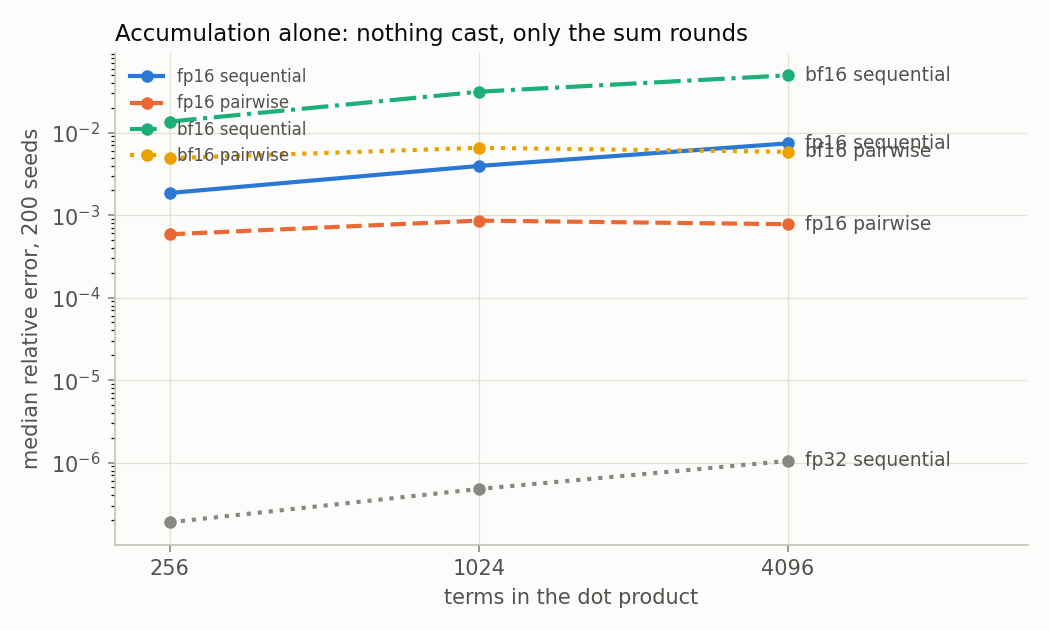
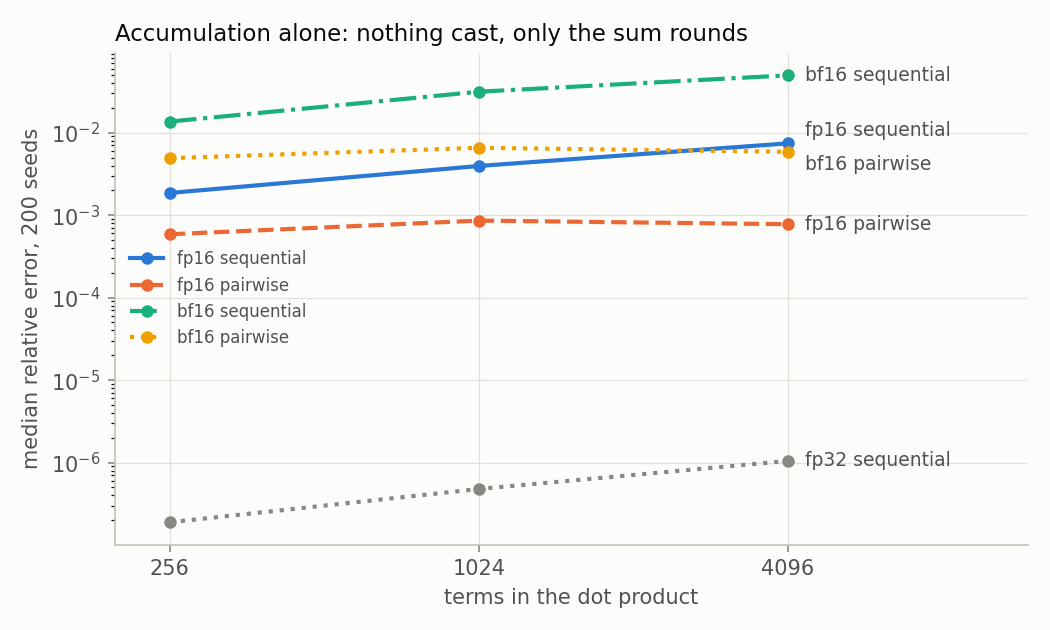
Make gradlew executable; separate colliding figure labels
CI failed on the first step with 'Permission denied': the wrapper was
committed from Windows without its executable bit.

Changed region(s): [[0.1219, 0.0905, 0.3048, 0.2714], [0.1219, 0.3921, 0.3048, 0.5429], [0.7619, 0.181, 0.9143, 0.2714]]

diff --git a/python/analyze.py b/python/analyze.py
@@ -80,12 +80,15 @@ def dot_sweep():
     ax.annotate("fp32 sequential", (ns[-1], ref[-1]), xytext=(8, 0), textcoords="offset points",
                 color=INK_2, fontsize=9, va="center")
     series = ["fp16 sequential", "fp16 pairwise", "bf16 sequential", "bf16 pairwise"]
+    # fp16 sequential and bf16 pairwise end within a few percent of each other, so
+    # their end labels are pushed apart rather than drawn on top of one another.
+    nudge = {"fp16 sequential": 6, "bf16 pairwise": -6}
     for i, label in enumerate(series):
         ys = [statistics.median(med[("accumulation", label, n)]) for n in ns]
         ax.plot(ns, ys, color=SERIES[i], linewidth=2, linestyle=STYLES[i], marker="o",
                 markersize=5, label=label)
-        ax.annotate(label, (ns[-1], ys[-1]), xytext=(8, 0), textcoords="offset points",
-                    color=INK_2, fontsize=9, va="center")
+        ax.annotate(label, (ns[-1], ys[-1]), xytext=(8, nudge.get(label, 0)),
+                    textcoords="offset points", color=INK_2, fontsize=9, va="center")
     ax.set_xscale("log", base=2)
     ax.set_yscale("log")
     ax.set_xticks(ns)
@@ -94,7 +97,7 @@ def dot_sweep():
     ax.set_xlabel("terms in the dot product", color=INK_2)
     ax.set_ylabel("median relative error, 200 seeds", color=INK_2)
     ax.set_title("Accumulation alone: nothing cast, only the sum rounds", color=INK, loc="left", fontsize=11)
-    ax.legend(frameon=False, fontsize=8, loc="upper left", labelcolor=INK_2)
+    ax.legend(frameon=False, fontsize=8, loc="center left", labelcolor=INK_2)
     fig.tight_layout()
     fig.savefig(IMG / "accumulation.png", facecolor=SURFACE)
     plt.close(fig)
